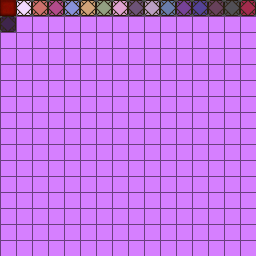
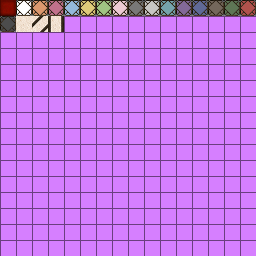
Add cob blocks and fix glasses textures

Changed region(s): [[0.0, 0.0, 1.0, 0.125]]

diff --git a/src/fr/ethilvan/EthilVan.java b/src/fr/ethilvan/EthilVan.java
@@ -13,6 +13,8 @@ import net.minecraft.item.crafting.CraftingManager;
 import net.minecraft.item.crafting.IRecipe;
 import net.minecraft.item.crafting.ShapedRecipes;
 import net.minecraft.item.crafting.ShapelessRecipes;
+import net.minecraftforge.client.MinecraftForgeClient;
+import net.minecraftforge.common.MinecraftForge;
 import cpw.mods.fml.common.Mod;
 import cpw.mods.fml.common.Mod.Init;
 import cpw.mods.fml.common.Mod.Instance;
@@ -51,6 +53,10 @@ public class EthilVan {
 	public static final Block stoneBrickWall = new BlockWallStoneBrick(234, Block.stoneBrick).setRequiresSelfNotify().setBlockName("stonebrickWall").setStepSound(Block.soundStoneFootstep);
 	public static final Block brickWall = new BlockWallBrick(235, Block.brick).setRequiresSelfNotify().setBlockName("brickWall").setStepSound(Block.soundStoneFootstep);
 	public static final Block netherBrickWall = new BlockWallNetherBrick(236, Block.netherBrick).setRequiresSelfNotify().setBlockName("netherbrickWall").setStepSound(Block.soundStoneFootstep);
+	public static final Block cob = new Block(2500, 17, Material.rock).setHardness(1.5F).setResistance(10.0F).setStepSound(Block.soundStoneFootstep)
+			.setCreativeTab(ethilvanTabs).setBlockName("cob").setTextureFile(CommonProxy.texture);
+	public static final Block cobTimbered = new BlockCobTimbered(2501, Material.rock);
+	public static final Block cobTimbered2 = new BlockCobTimbered2(2502, Material.rock);
 	/* Item */
 
 	@PreInit
@@ -73,10 +79,14 @@ public class EthilVan {
 		GameRegistry.registerBlock(stoneBrickWall, "stoneBrickWall");
 		GameRegistry.registerBlock(brickWall, "brickWall");
 		GameRegistry.registerBlock(netherBrickWall, "netherBrickWall");
+		GameRegistry.registerBlock(cob, "cob");
+		GameRegistry.registerBlock(cobTimbered, "cobTimbered");
+		GameRegistry.registerBlock(cobTimbered2, "cobTimbered2");
 		Item.itemsList[coloredGlass.blockID] = new ItemMultiTextureTile(coloredGlass.blockID - 256, coloredGlass, BlockColoredGlass.types).setItemName("coloredGlass");
 		Item.itemsList[carpet.blockID] = new ItemMultiTextureTile(carpet.blockID - 256, carpet, BlockCarpet.type).setItemName("carpet");
 		Item.itemsList[sandStoneWall.blockID] = new ItemMultiTextureTile(sandStoneWall.blockID - 256, sandStoneWall, BlockWallSandStone.types);
 		Item.itemsList[stoneBrickWall.blockID] = new ItemMultiTextureTile(stoneBrickWall.blockID - 256, stoneBrickWall, BlockWallStoneBrick.types);
+		Item.itemsList[cobTimbered2.blockID] = new ItemMultiTextureTile(cobTimbered2.blockID - 256, cobTimbered2, BlockCobTimbered2.faces);
 	}
 
 	private void setupCrafts() {
@@ -152,6 +162,18 @@ public class EthilVan {
 		GameRegistry.addRecipe(new ItemStack(Block.sandStone, 2), new Object[] {
 			"XX", "XX", Character.valueOf('X'), Block.sand
 		});
+		GameRegistry.addRecipe(new ItemStack(Block.sandStone, 2), new Object[] {
+			"XX", "XX", Character.valueOf('X'), Block.sand
+		});
+		GameRegistry.addRecipe(new ItemStack(cob, 3), new Object[] {
+			"CDC", "WCW", "CDC", Character.valueOf('C'), Item.clay, Character.valueOf('D'), new ItemStack(Item.dyePowder, 1, 15), Character.valueOf('W'), Item.wheat
+		});
+		GameRegistry.addRecipe(new ItemStack(cobTimbered, 9), new Object[] {
+			"WCW", "WCW", "WCW", Character.valueOf('C'), cob, Character.valueOf('W'), Block.wood
+		});
+		GameRegistry.addRecipe(new ItemStack(cobTimbered2, 9), new Object[] {
+			"CWC", "WCW", "CWC", Character.valueOf('C'), cob, Character.valueOf('W'), Block.wood
+		});
 	}
 
 	private void setupLanguages() {
@@ -196,6 +218,9 @@ public class EthilVan {
 		LanguageRegistry.addName(new ItemStack(stoneBrickWall, 1, 3), "Muret de briques de pierre sculptées");
 		LanguageRegistry.addName(netherBrickWall, "Muret de briques des Tréfonds");
 		LanguageRegistry.addName(brickWall, "Muret de briques");
+		LanguageRegistry.addName(cob, "Torchis");
+		LanguageRegistry.addName(cobTimbered, "Torchis");
+		LanguageRegistry.addName(cobTimbered2, "Torchis");
 	}
 
 	private void removeRecipe(ItemStack resultItem) {
@@ -215,7 +240,7 @@ public class EthilVan {
 			}
 
 			if (ItemStack.areItemStacksEqual(resultItem, recipeResult)) {
-				System.out.println("[EthilVan] Removed Recipe: " + recipes.get(scan) + " -> " + recipeResult.itemID);
+				System.out.println("[EthilVan] Removed Recipe: " + recipeResult.itemID);
 				recipes.remove(scan);
 			}
 		}

diff --git a/src/fr/ethilvan/BlockCobTimbered2.java b/src/fr/ethilvan/BlockCobTimbered2.java
@@ -1,0 +1,62 @@
+package fr.ethilvan;
+
+import java.util.Random;
+
+import fr.ethilvan.common.CommonProxy;
+import net.minecraft.block.Block;
+import net.minecraft.block.material.Material;
+import net.minecraft.entity.EntityLiving;
+import net.minecraft.util.MathHelper;
+import net.minecraft.world.IBlockAccess;
+import net.minecraft.world.World;
+
+public class BlockCobTimbered2 extends Block {
+
+	public static String[] faces = {"0", "1"};
+	public BlockCobTimbered2(int par1, Material par2Material) {
+		super(par1, par2Material);
+		this.setHardness(1.5F);
+		this.setResistance(10.0F);
+		this.setStepSound(Block.soundStoneFootstep);
+		this.setCreativeTab(EthilVan.ethilvanTabs);
+		this.setBlockName("cobTimbered2");
+		this.setTextureFile(CommonProxy.texture);
+	}
+
+	public void onBlockPlacedBy(World par1World, int par2, int par3, int par4, EntityLiving par5EntityLiving)
+	{
+		int var6 = MathHelper.floor_double((double)(par5EntityLiving.rotationYaw * 4.0F / 360.0F) + 0.5D) & 3;
+
+		if (var6 == 0 || var6 == 2)
+		{
+			par1World.setBlockMetadataWithNotify(par2, par3, par4, 0);
+		}
+
+		if (var6 == 1 || var6 == 3)
+		{
+			par1World.setBlockMetadataWithNotify(par2, par3, par4, 1);
+		}
+	}
+
+	public int getBlockTextureFromSideAndMetadata(int par1, int par2) {
+		switch (par2) {
+		case 0:
+			if (par1 == 0 || par1 == 1 || par1 == 4 || par1 == 5) {
+				return 17;
+			} else {
+				return 18;
+			}
+		case 1:
+			if (par1 == 0 || par1 == 1 || par1 == 2 || par1 == 3) {
+				return 17;
+			} else {
+				return 18;
+			}
+		}
+		return 0;
+	}
+
+	public int idDropped(int par1, Random par2Random, int par3) {
+		return EthilVan.cobTimbered2.blockID;
+	}
+}

diff --git a/src/fr/ethilvan/BlockCobTimbered.java b/src/fr/ethilvan/BlockCobTimbered.java
@@ -1,0 +1,57 @@
+package fr.ethilvan;
+
+import java.util.Random;
+
+import fr.ethilvan.common.CommonProxy;
+
+import net.minecraft.block.Block;
+import net.minecraft.block.material.Material;
+import net.minecraft.world.World;
+
+public class BlockCobTimbered extends Block {
+
+	public BlockCobTimbered(int par1, Material par2Material) {
+		super(par1, par2Material);
+		this.setHardness(1.5F);
+		this.setResistance(10.0F);
+		this.setStepSound(Block.soundStoneFootstep);
+		this.setCreativeTab(EthilVan.ethilvanTabs);
+		this.setBlockName("cobTimbered");
+		this.setTextureFile(CommonProxy.texture);
+	}
+
+	public int getRenderType() {
+		return 31;
+	}
+
+	public int idDropped(int par1, Random par2Random, int par3) {
+		return EthilVan.cobTimbered.blockID;
+	}
+
+	public int onBlockPlaced(World par1World, int par2, int par3, int par4, int par5, float par6, float par7, float par8, int par9) {
+		int var10 = par9 & 3;
+		byte var11 = 0;
+
+		switch (par5) {
+		case 0:
+		case 1:
+			var11 = 0;
+			break;
+		case 2:
+		case 3:
+			var11 = 8;
+			break;
+		case 4:
+		case 5:
+			var11 = 4;
+		}
+
+		return var10 | var11;
+	}
+
+	public int getBlockTextureFromSideAndMetadata(int par1, int par2) {
+		int var3 = par2 & 12;
+		int var4 = par2 & 3;
+		return var3 == 0 && (par1 == 1 || par1 == 0) ? 17 : (var3 == 4 && (par1 == 5 || par1 == 4) ? 17 : (var3 == 8 && (par1 == 2 || par1 == 3) ? 17 : 19));
+	}
+}

diff --git a/src/fr/ethilvan/blocks/BlockColoredGlass.java b/src/fr/ethilvan/blocks/BlockColoredGlass.java
@@ -97,7 +97,7 @@ public class BlockColoredGlass extends BlockBreakable
 			return 16;
 		}
 
-		return metadata;
+		return 0;
 	}
 
 	@SideOnly(Side.CLIENT)
